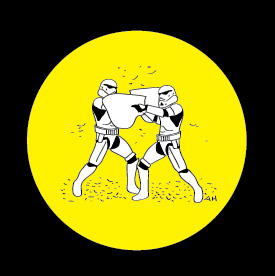
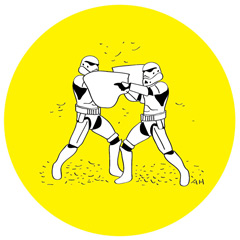
thumbnail images now all square (finally - dafuq?)

diff --git a/index.html b/index.html
@@ -71,7 +71,7 @@ $(function() {
 	
 	<div class="span3" data-tags="web video">
 		<a href="projects/flatmin.html" class="thumbnail">
-      <img src="/images/flatmin.png">
+      <img src="/images/flatmin.jpg">
 		</a>
 	</div>
 	
@@ -83,7 +83,7 @@ $(function() {
 	
 	<div class="span3" data-tags="web print video">
 		<a href="projects/200square.html" class="thumbnail">
-			<img src="/images/200square.png">
+			<img src="/images/200square.jpg">
 		</a>
 	</div>
 	
@@ -119,7 +119,7 @@ $(function() {
 
 	<div class="span3" data-tags="branding print web">
 		<a href="projects/timonnes.html" class="thumbnail">
-      <img src="/images/timonnes.png">
+      <img src="/images/timonnes.jpg">
 		</a>
 	</div>
 	
